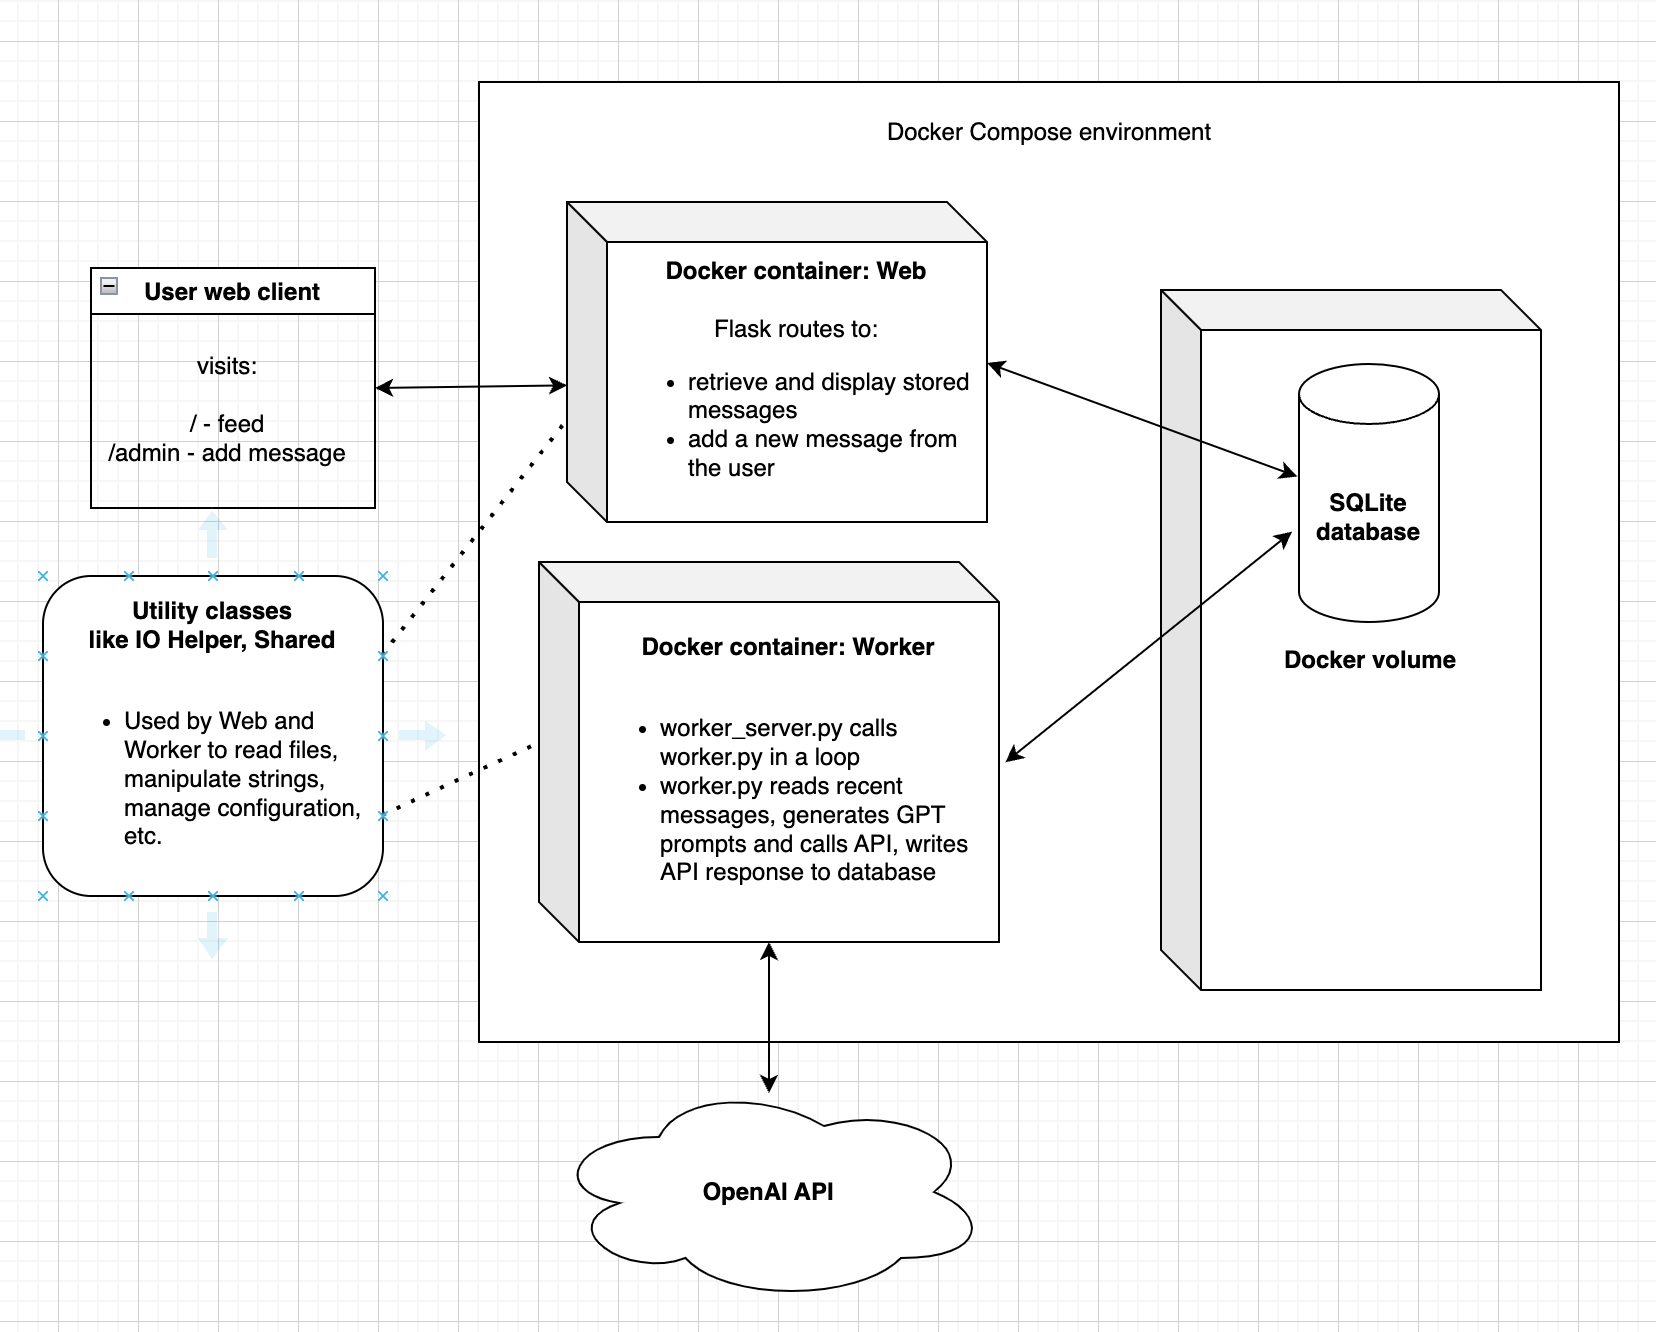
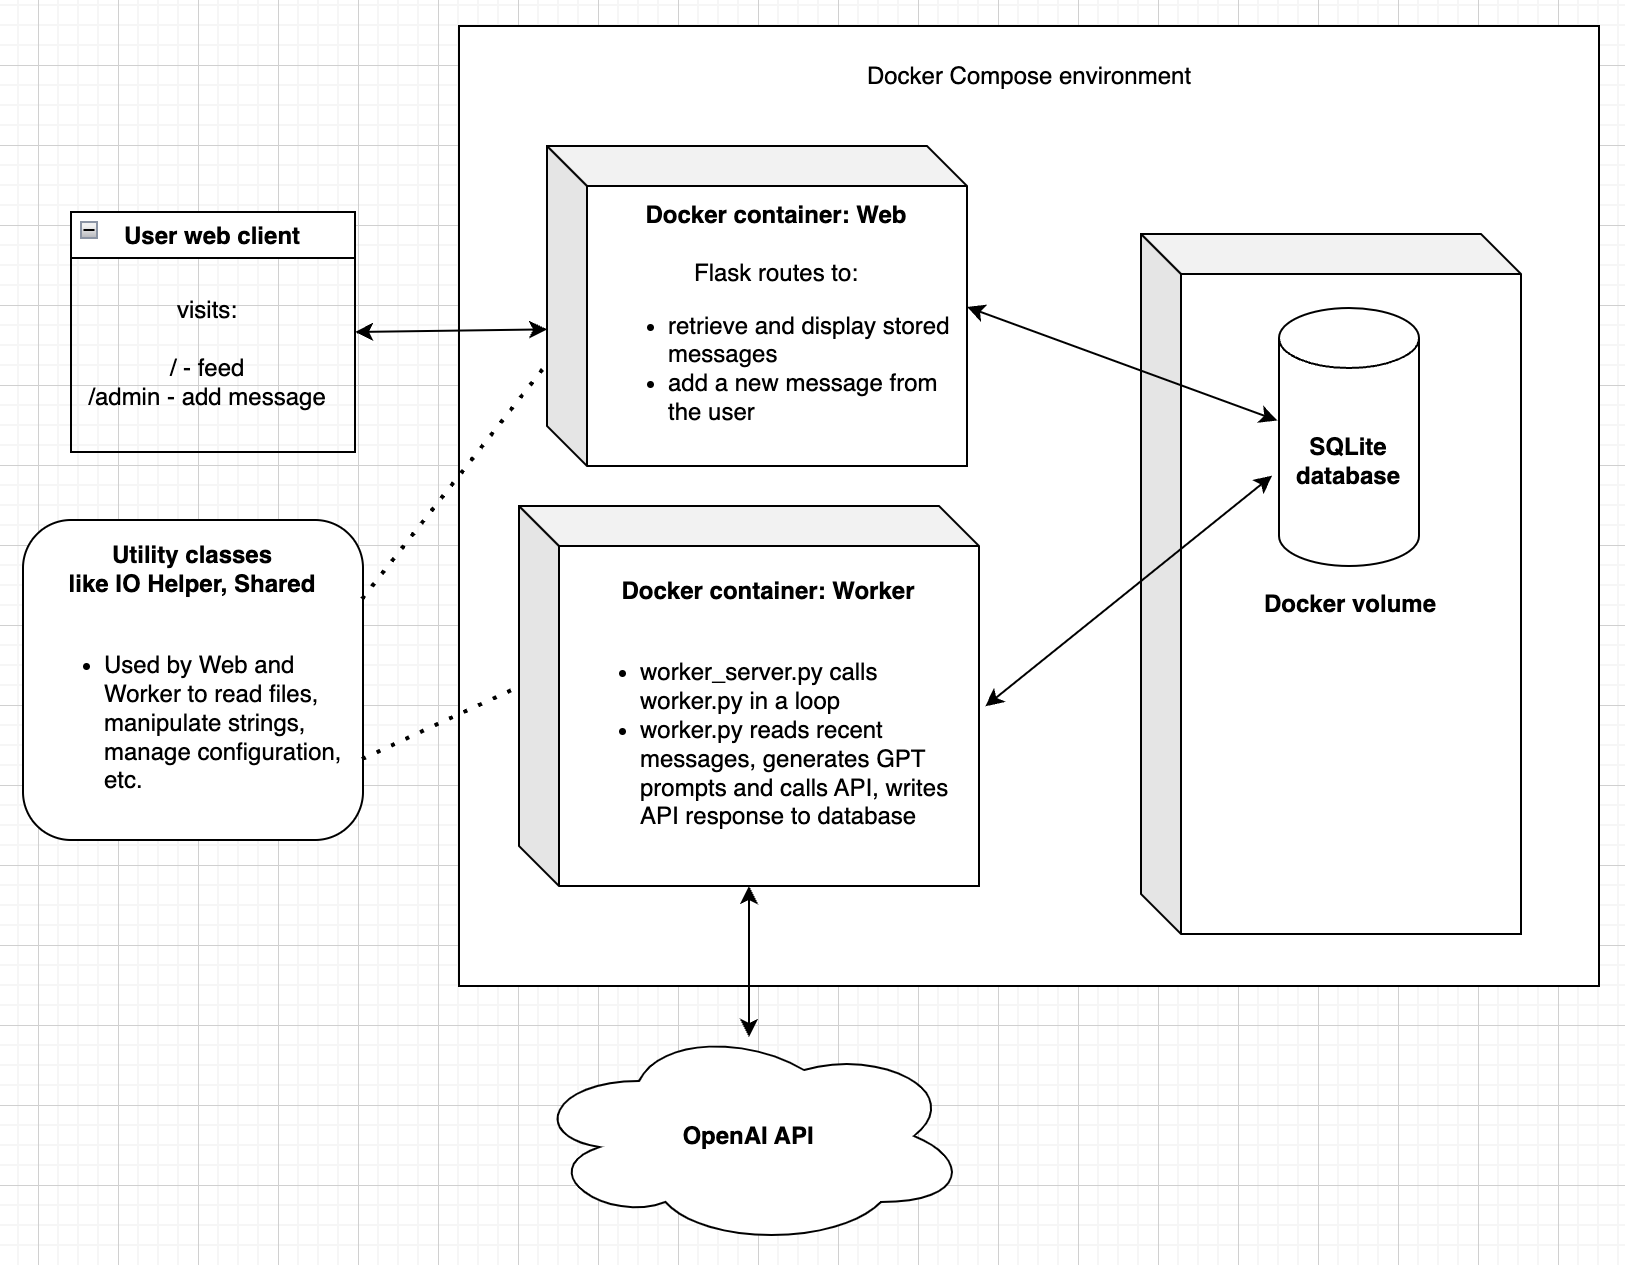
better arch. image; readme tweaks

diff --git a/README.md b/README.md
@@ -13,7 +13,7 @@ with OpenAI's API, as well as refresh my memory on Docker Compose and Flask.
 
 ![image](images/screenshot.png)
 
-## How to set up and run the project on your own machine
+## Run the project on your own machine
 
 1. Get Docker ready on your system: https://docs.docker.com/get-docker/
 1. Get your OpenAI API key into an environment variable on your local system: https://platform.openai.com/docs/quickstart/step-2-setup-your-api-key
@@ -23,7 +23,7 @@ with OpenAI's API, as well as refresh my memory on Docker Compose and Flask.
 1. To view the feed of the microblog, open `localhost` in a web browser
 1. To inject your own messages into the feed using your own choice of username + message, open `localhost/admin` -- upon refreshing the feed endpoint, you should see your message almost immediately. There's a chance the "bots" (i.e. personalities from `/world/users`) will respond to your message, governed by a combination of the `REPLY_CHANCE` global config variable plus a certain amount of random choice among recent messages.
 
-## Customize the output to build your own world
+## Customize to build your own world
 
 The project comes with a sample setting created by me. It's an imaginary 2050
 Mars colony sci-fi setting. But you can alter the files in:
